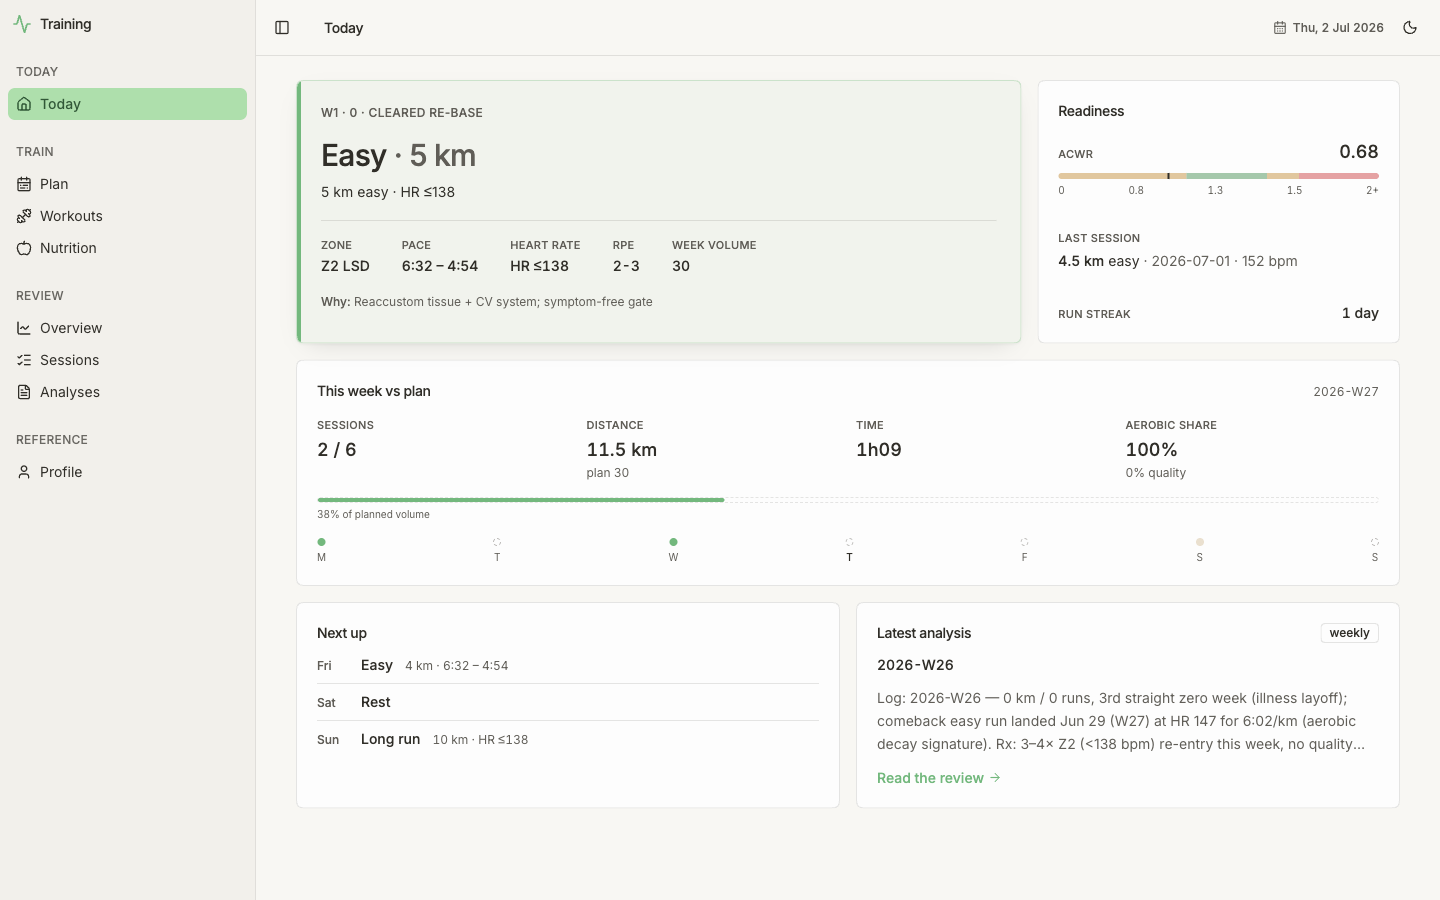
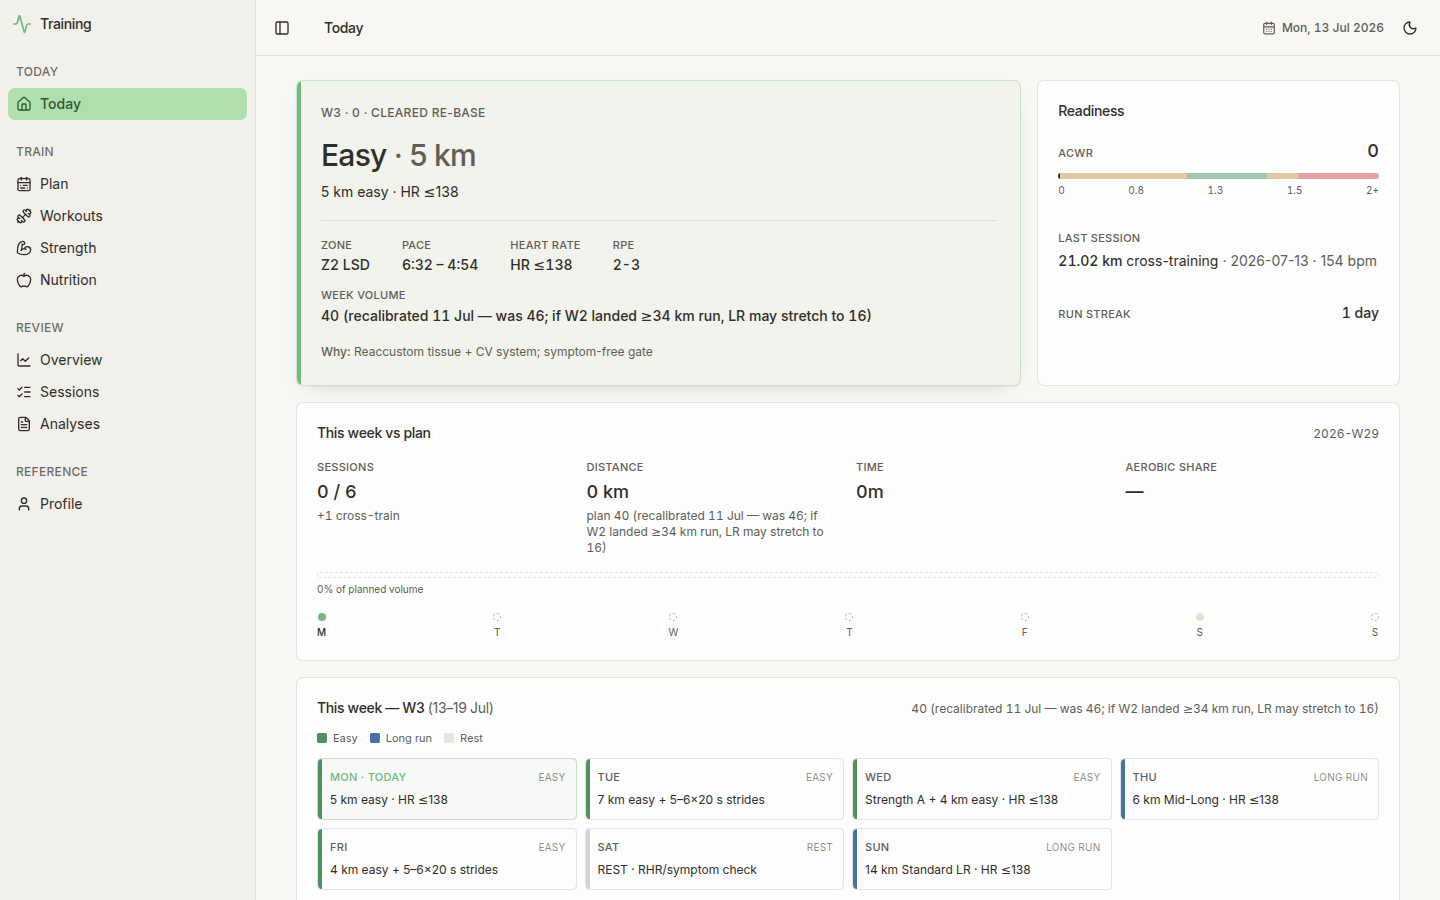
content(ai-running-coach): trim closer, add autonomy section, refresh app screenshots
- Remove the "workout I feel in my legs" sentence from the "What I learned" closer
- Add a "Making it run itself" section covering the fine-grained PAT git auth
  and how the scheduled jobs run unattended both on the Mac and in a sandbox
- Refresh the Today and Workouts dashboard screenshots to the current app,
  and update the Today alt text to match the new week-strip view

Claude-Session: https://claude.ai/code/session_01AYXf6js5sfqmmw2y226zkJ

diff --git a/src/app/work/experiment/[slug]/content/ai-running-coach.tsx b/src/app/work/experiment/[slug]/content/ai-running-coach.tsx
@@ -210,7 +210,7 @@ export default function AiRunningCoachContent() {
       <WideSection className="mb-20">
         <ProjectImage
           src="/resource/projects/running_overview.png"
-          alt="The training dashboard's Today view: prescribed session, readiness, week versus plan, and the latest weekly analysis"
+          alt="The training dashboard's Today view: prescribed session, readiness, week versus plan, and the week ahead day by day"
           width={1440}
           height={900}
           caption="The companion dashboard, a Next.js app reading the same data layer."
@@ -271,6 +271,30 @@ export default function AiRunningCoachContent() {
         </p>
       </MiddleSection>
 
+      {/* Making it autonomous */}
+      <MiddleSection className="mb-20 space-y-6">
+        <SectionHeading>Making it run itself</SectionHeading>
+        <p className="text-base text-muted-foreground leading-relaxed mb-3">
+          The last piece was getting the whole thing to run without me. The jobs
+          are scheduled Claude tasks on my Mac that fetch from Strava, rebuild
+          the rollups, and commit straight to the repo, since git is the
+          database here. The awkward part was auth, because a scheduled job
+          cannot stop to unlock a keychain or type an SSH passphrase. So I gave
+          it a fine-grained GitHub token, scoped to just this repo with read and
+          write on contents, and a one-time setup script that stores the token
+          inside the git directory where it can never be committed, points the
+          remote at plain HTTPS, and installs a repo-local credential helper
+          that hands git the token on every push.
+        </p>
+        <p className="text-base text-muted-foreground leading-relaxed mb-3">
+          The nice part is that the same setup works whether the agent runs
+          locally on my Mac or in a throwaway sandbox, so I can hand a task to
+          an unattended session and trust that its commit actually lands.
+          Rotating the token is just re-running the script, and revoking it on
+          GitHub cuts access instantly.
+        </p>
+      </MiddleSection>
+
       {/* Second visual */}
       <WideSection className="mb-20">
         <ProjectImage
@@ -286,10 +310,7 @@ export default function AiRunningCoachContent() {
         <SectionHeading>What I learned</SectionHeading>
         <p className="text-base text-muted-foreground leading-relaxed mb-3">
           Building an agent around data you personally care about is a fantastic
-          forcing function. When the agent gets a number wrong, it is not an
-          abstract bug in a dashboard, it is a workout I feel in my legs that
-          morning, so you learn fast where LLMs need rails and where they
-          genuinely shine. It is not a revolutionary system, honestly it is a
+          forcing function. It is not a revolutionary system, honestly it is a
           Python ingest script and some markdown with an agent reading it, but
           it is one I get to redesign every time it lets me down, and that is
           genuinely satisfying to work on morning after morning.
